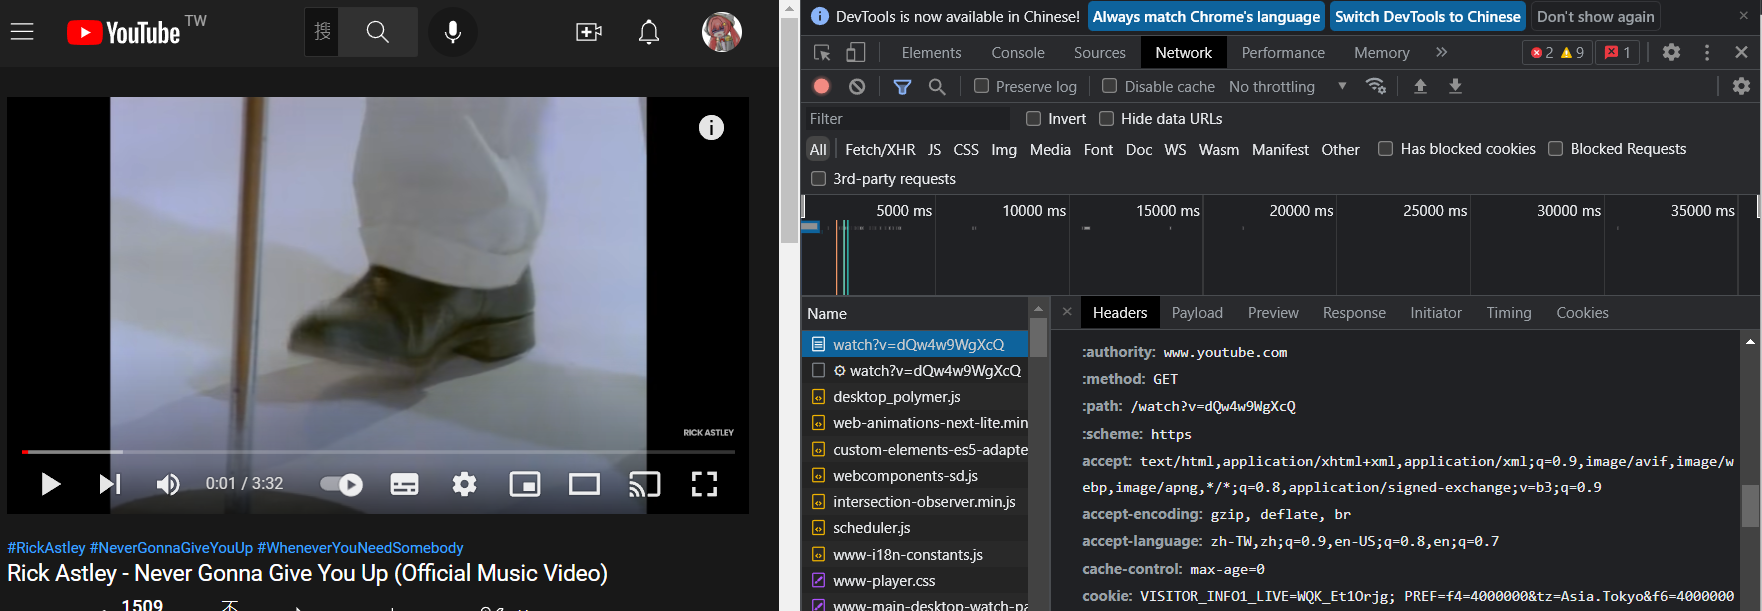
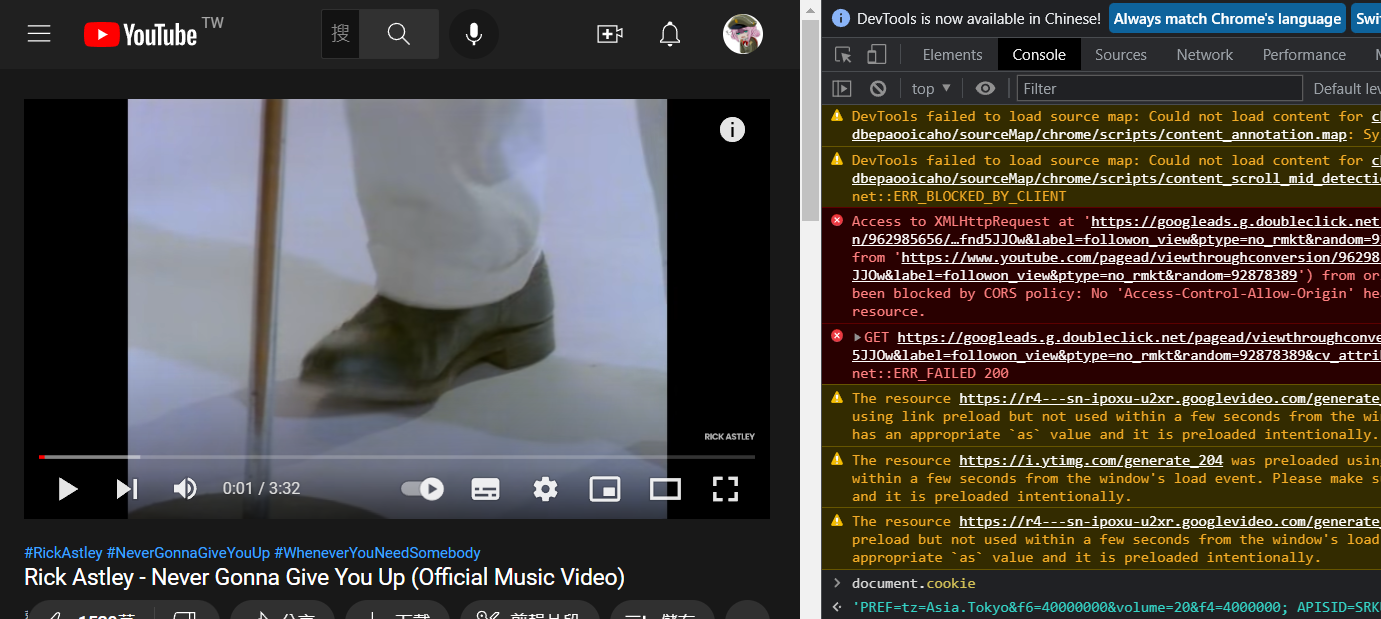
readme small update
readme small update

diff --git a/music_functions/music_func.js b/music_functions/music_func.js
@@ -33,11 +33,11 @@ const {
 //#endregion
 
 const {
-    YT_COOKIE,
-    music_temp_dir = "music_temp/",
-    authed_user_id = [],
-    download_chunk_size = 4194304,
-    clear_console = true
+    YT_COOKIE = "",
+        music_temp_dir = "music_temp/",
+        authed_user_id = [],
+        download_chunk_size = 4194304,
+        clear_console = true
 } = require('../config.json');
 
 class discord_music {

diff --git a/README.md b/README.md
@@ -37,7 +37,7 @@ or follow the instruction here(https://discordjs.guide/preparations/adding-your-
 
 - create config.json in root</br>
 Format example: `config.example.json`
-YT_COOKIE can be found in any YT video,check header section called "cookie" (or biscuit in UK) in developer mode</br>
+YT_COOKIE can be found in any YT video,type`document.cookie` in developer mode's console</br>
 ![biscuit](./readme_assets/biscuit.png)
 - install lost packages using `npm i` and click PD_Maid_link_start.bat (or just run using `node .`),PD_Maid_link_start_admin.bat will ask for admin permission</br>
 - Once it's ready, it will output a console log</br>
